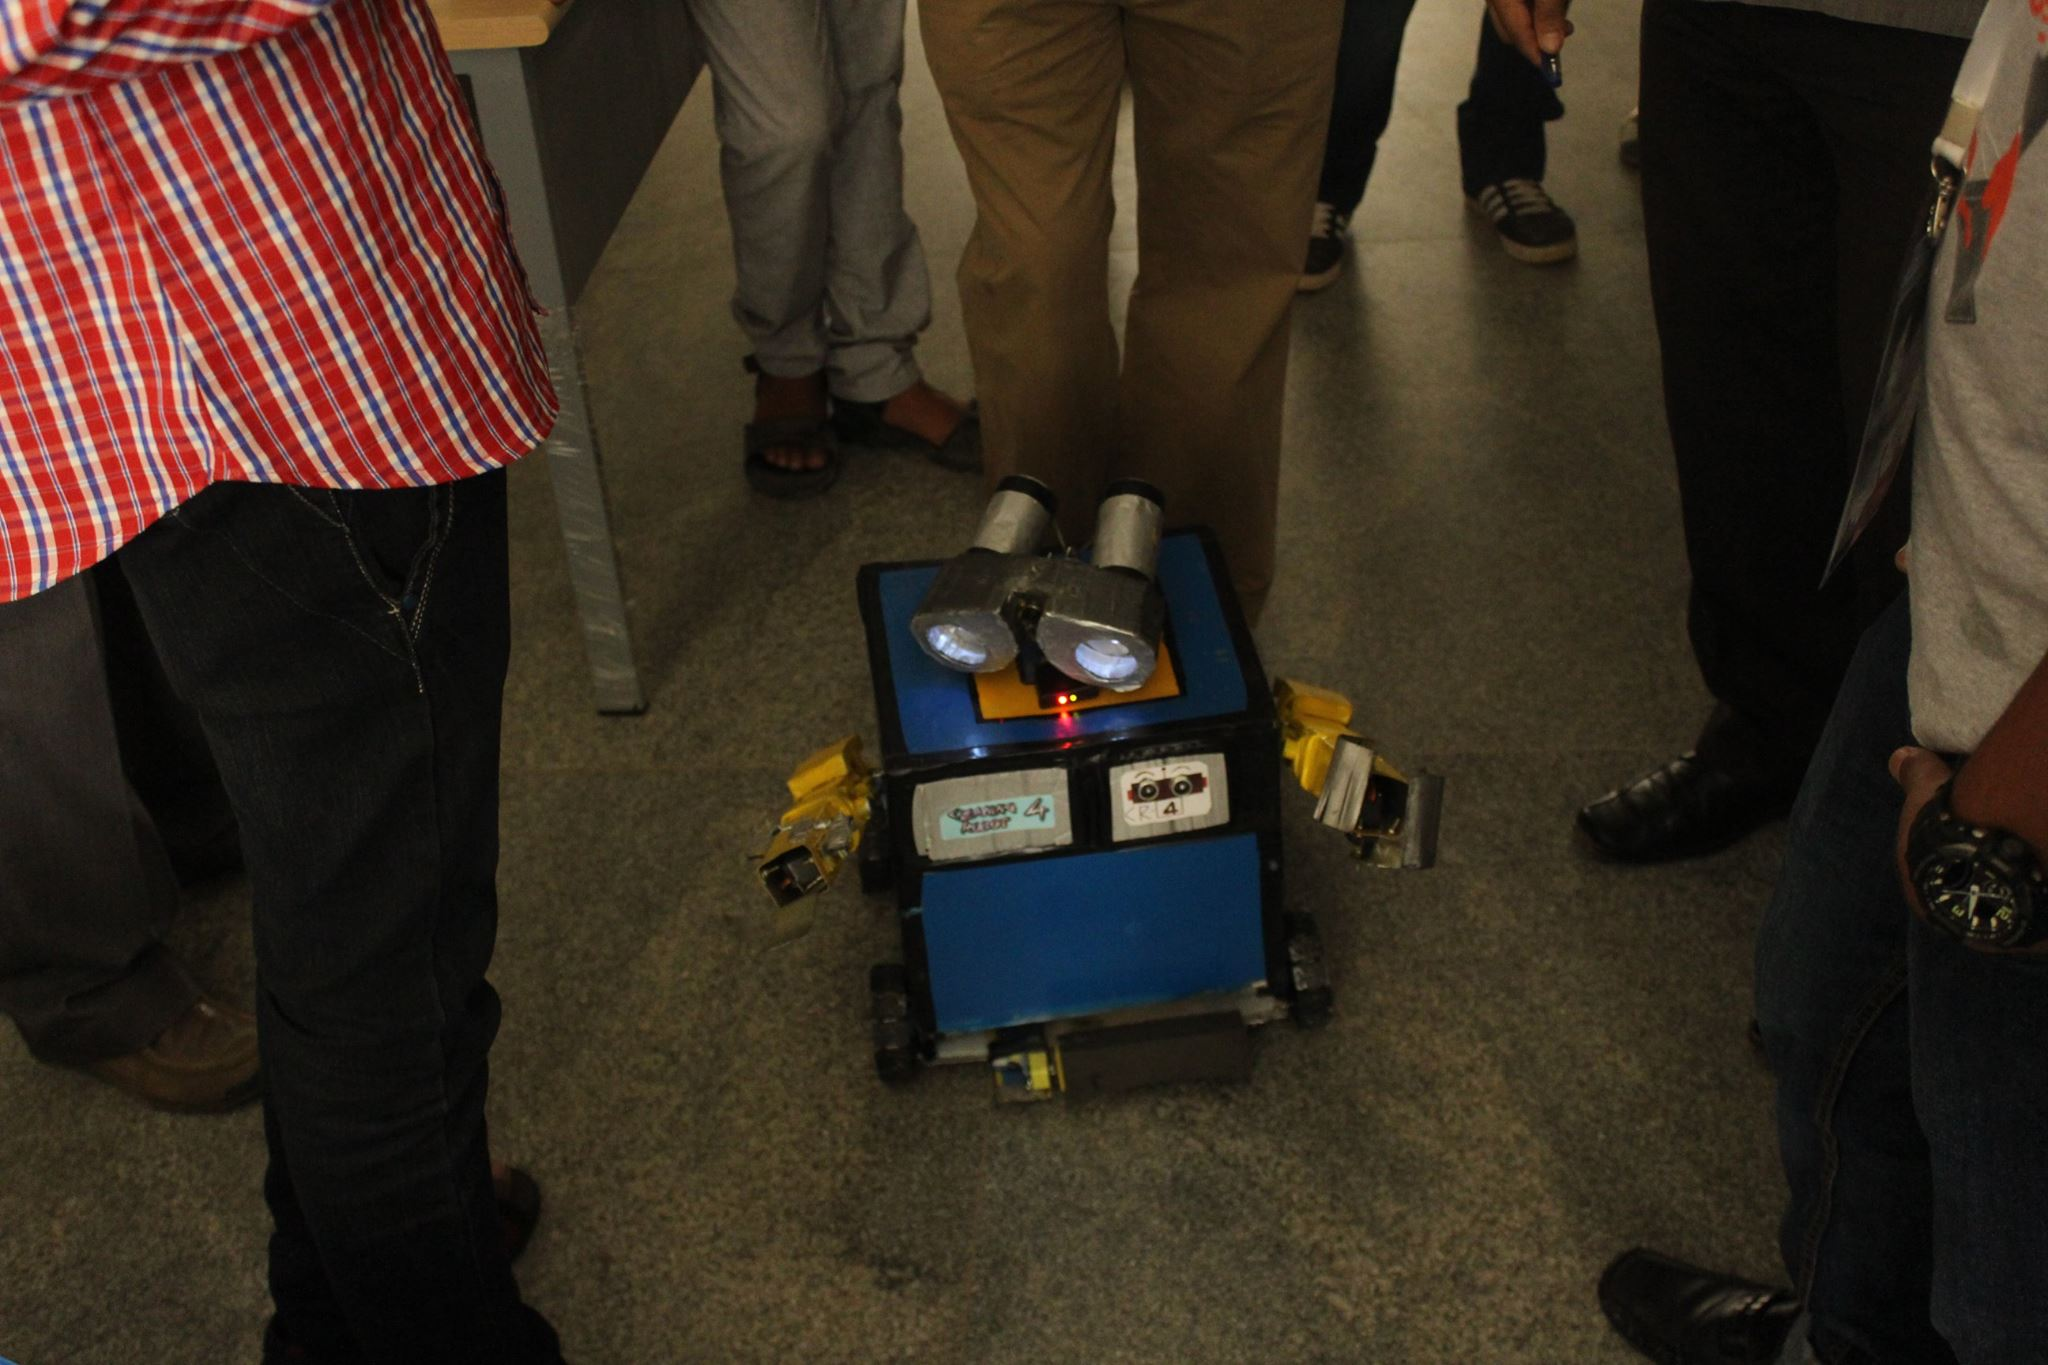
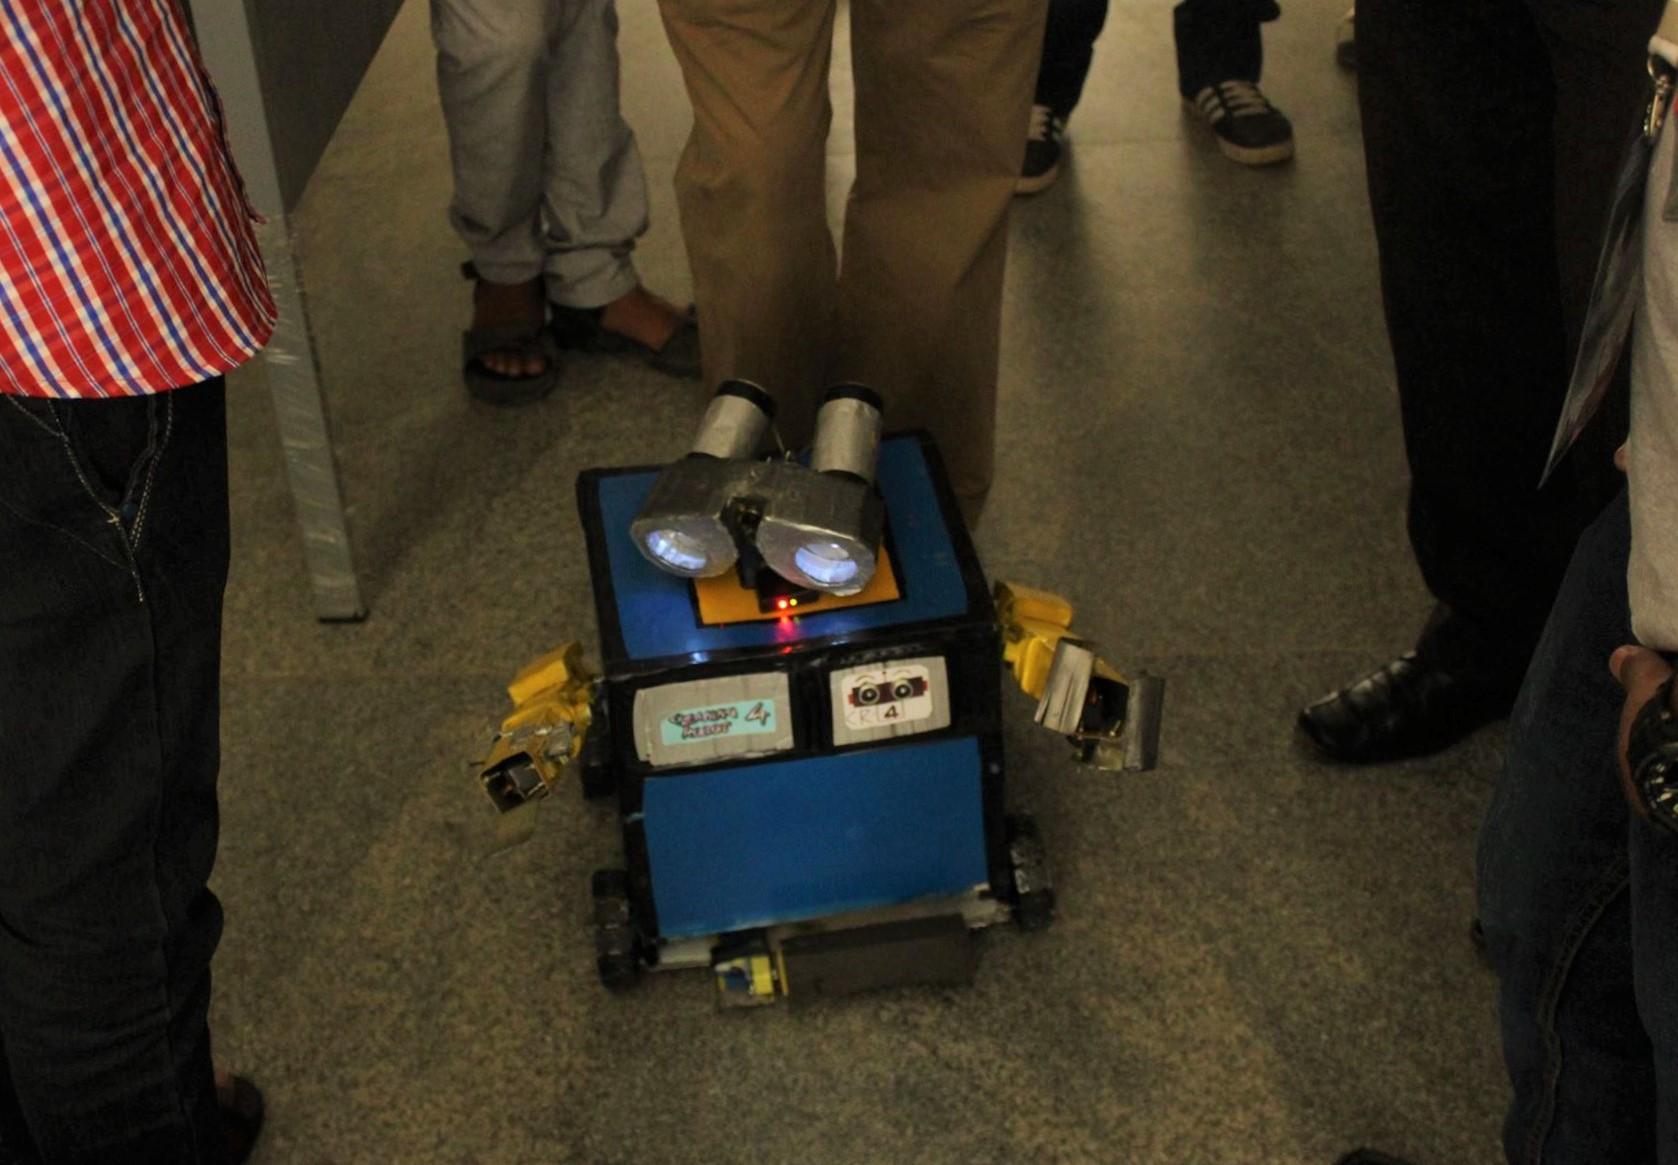
Commit 1.1.31
-> Added CR4 in projects

diff --git a/_projects/3cr4.md b/_projects/3cr4.md
@@ -1,0 +1,19 @@
+---
+title: "CR-4, A Remote Controlled Cleaning Robot"
+excerpt: "This was my first robot which I built in 2014 after getting inspired by the Pixar Robot Wall-e to conduct trivial tasks like sweeping the floor. It is remotely controlled using a Playstation Controller. As the cleaning mechanism uses a physical brush, it consumes less power than vaccumm robots."
+imagePath: "/images/Cr4_2.JPG"
+permalink: "/projects/cr4"
+collection: projects
+youtubeId: ""
+---
+
+This robot was designed to sweep around the house to aid me in my chores. It was built during my school days in 2014. It is powered by an Arduino Mega and is controlled using a Playstation controller hacked to work with the Arduino. 
+
+<img src="/images/Cr4_1.jpg" />
+
+* It uses a differential drive steering mechanism. Each side is powered by two 300rpm DC Motors
+* Both arms has a gripper and can be controlled with the servo. 
+* The head has a surviellance camera fitted with IR and LED lights to assist in night vision
+* The robot has an ultrasonic sensor mounted in the front which disables movement if an obstacle is detected and gives feedback to the controller.
+* The sweeping mechanism uses a brush attached to a motor, this is a power saving method compared to vacuum robots.
+
